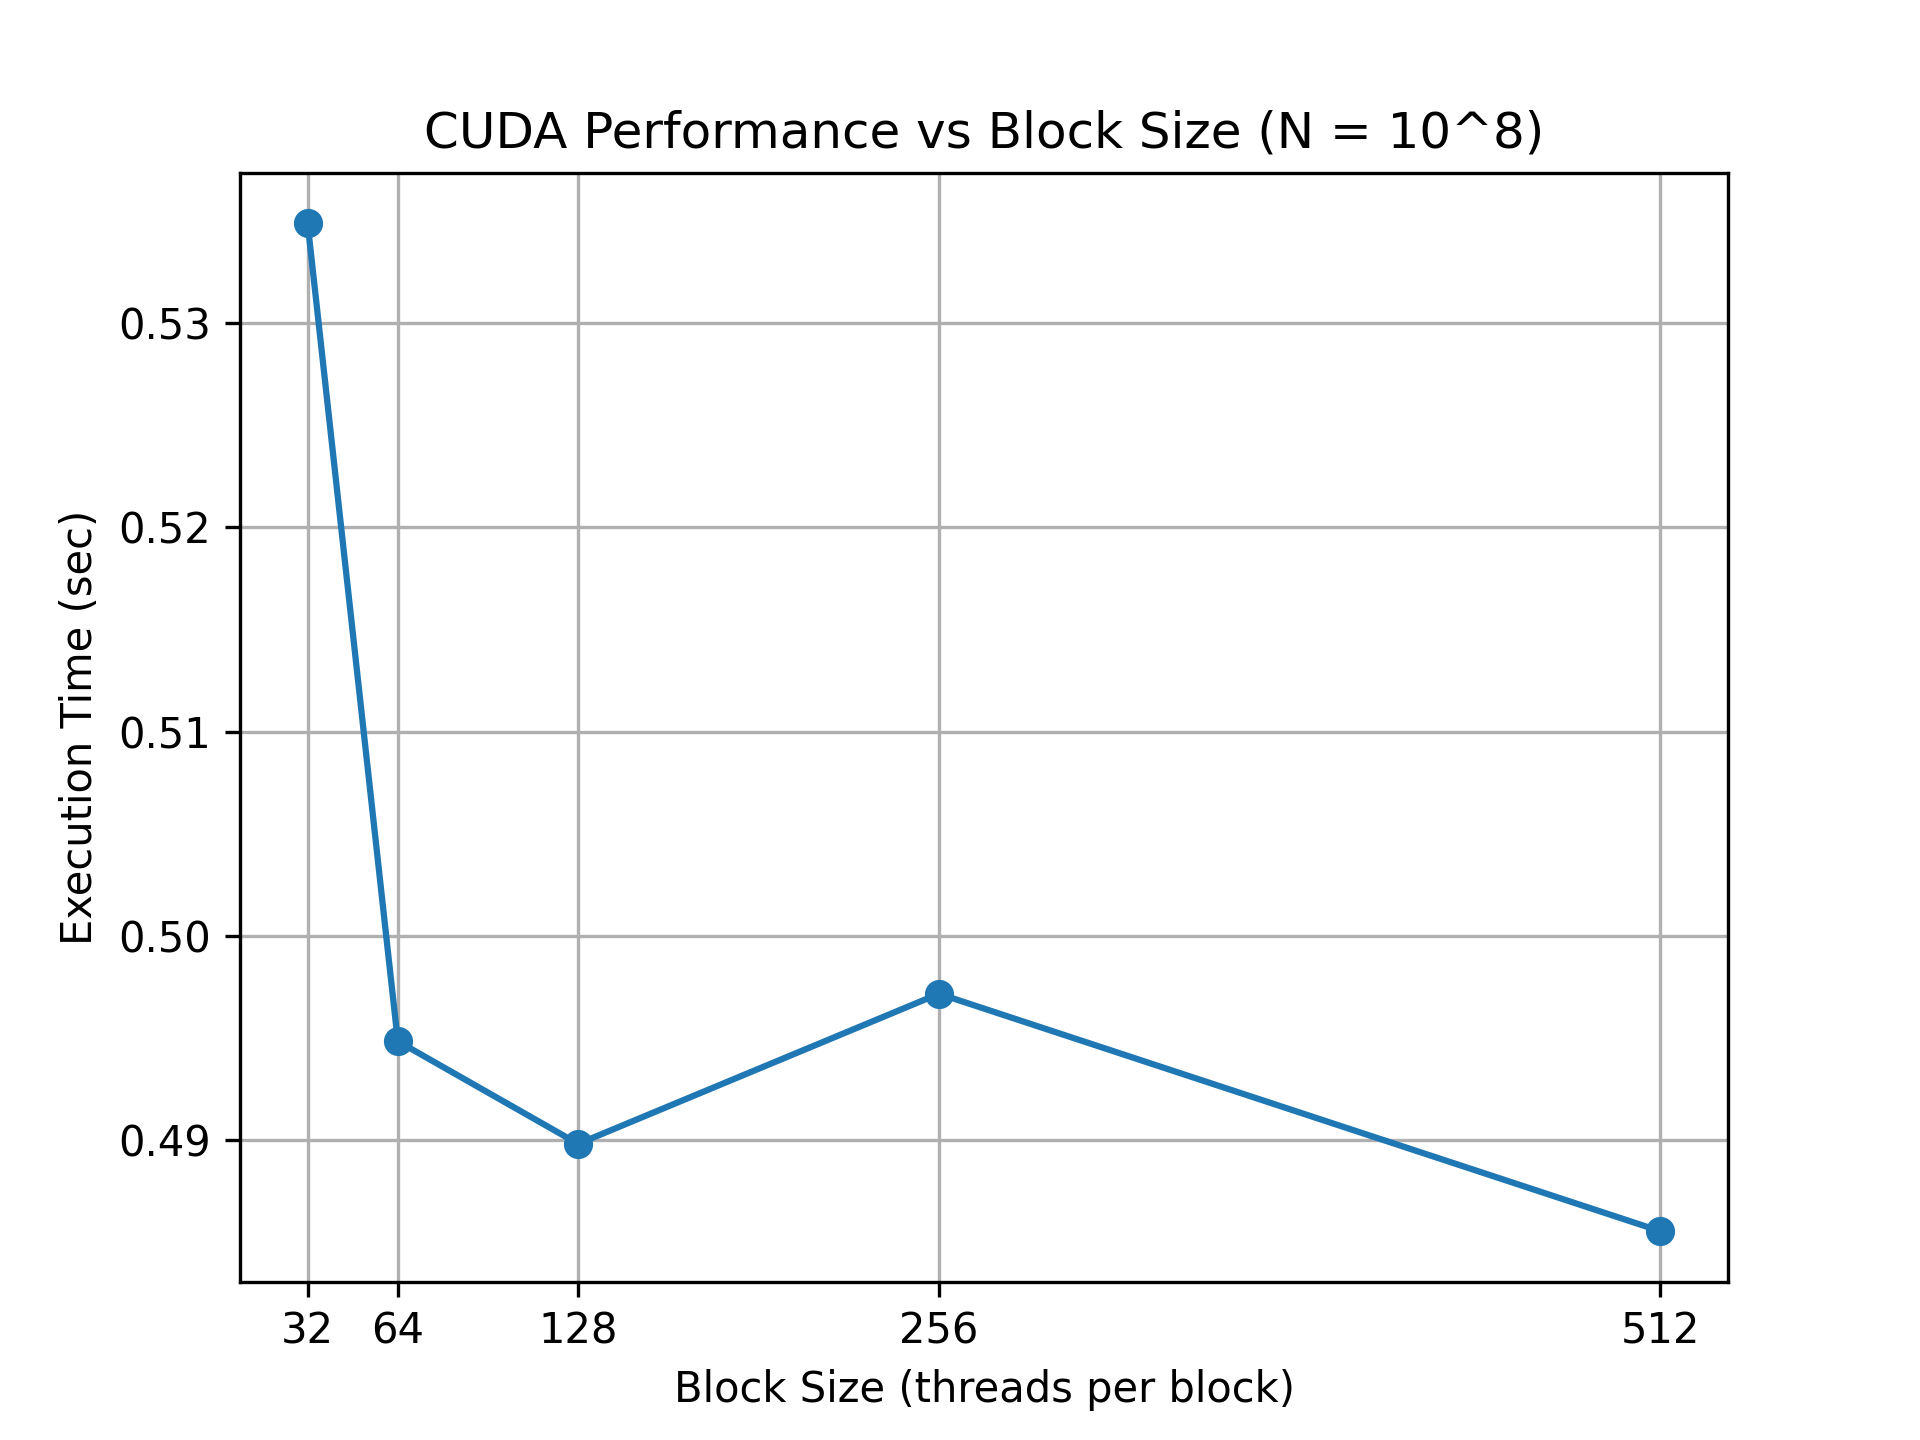
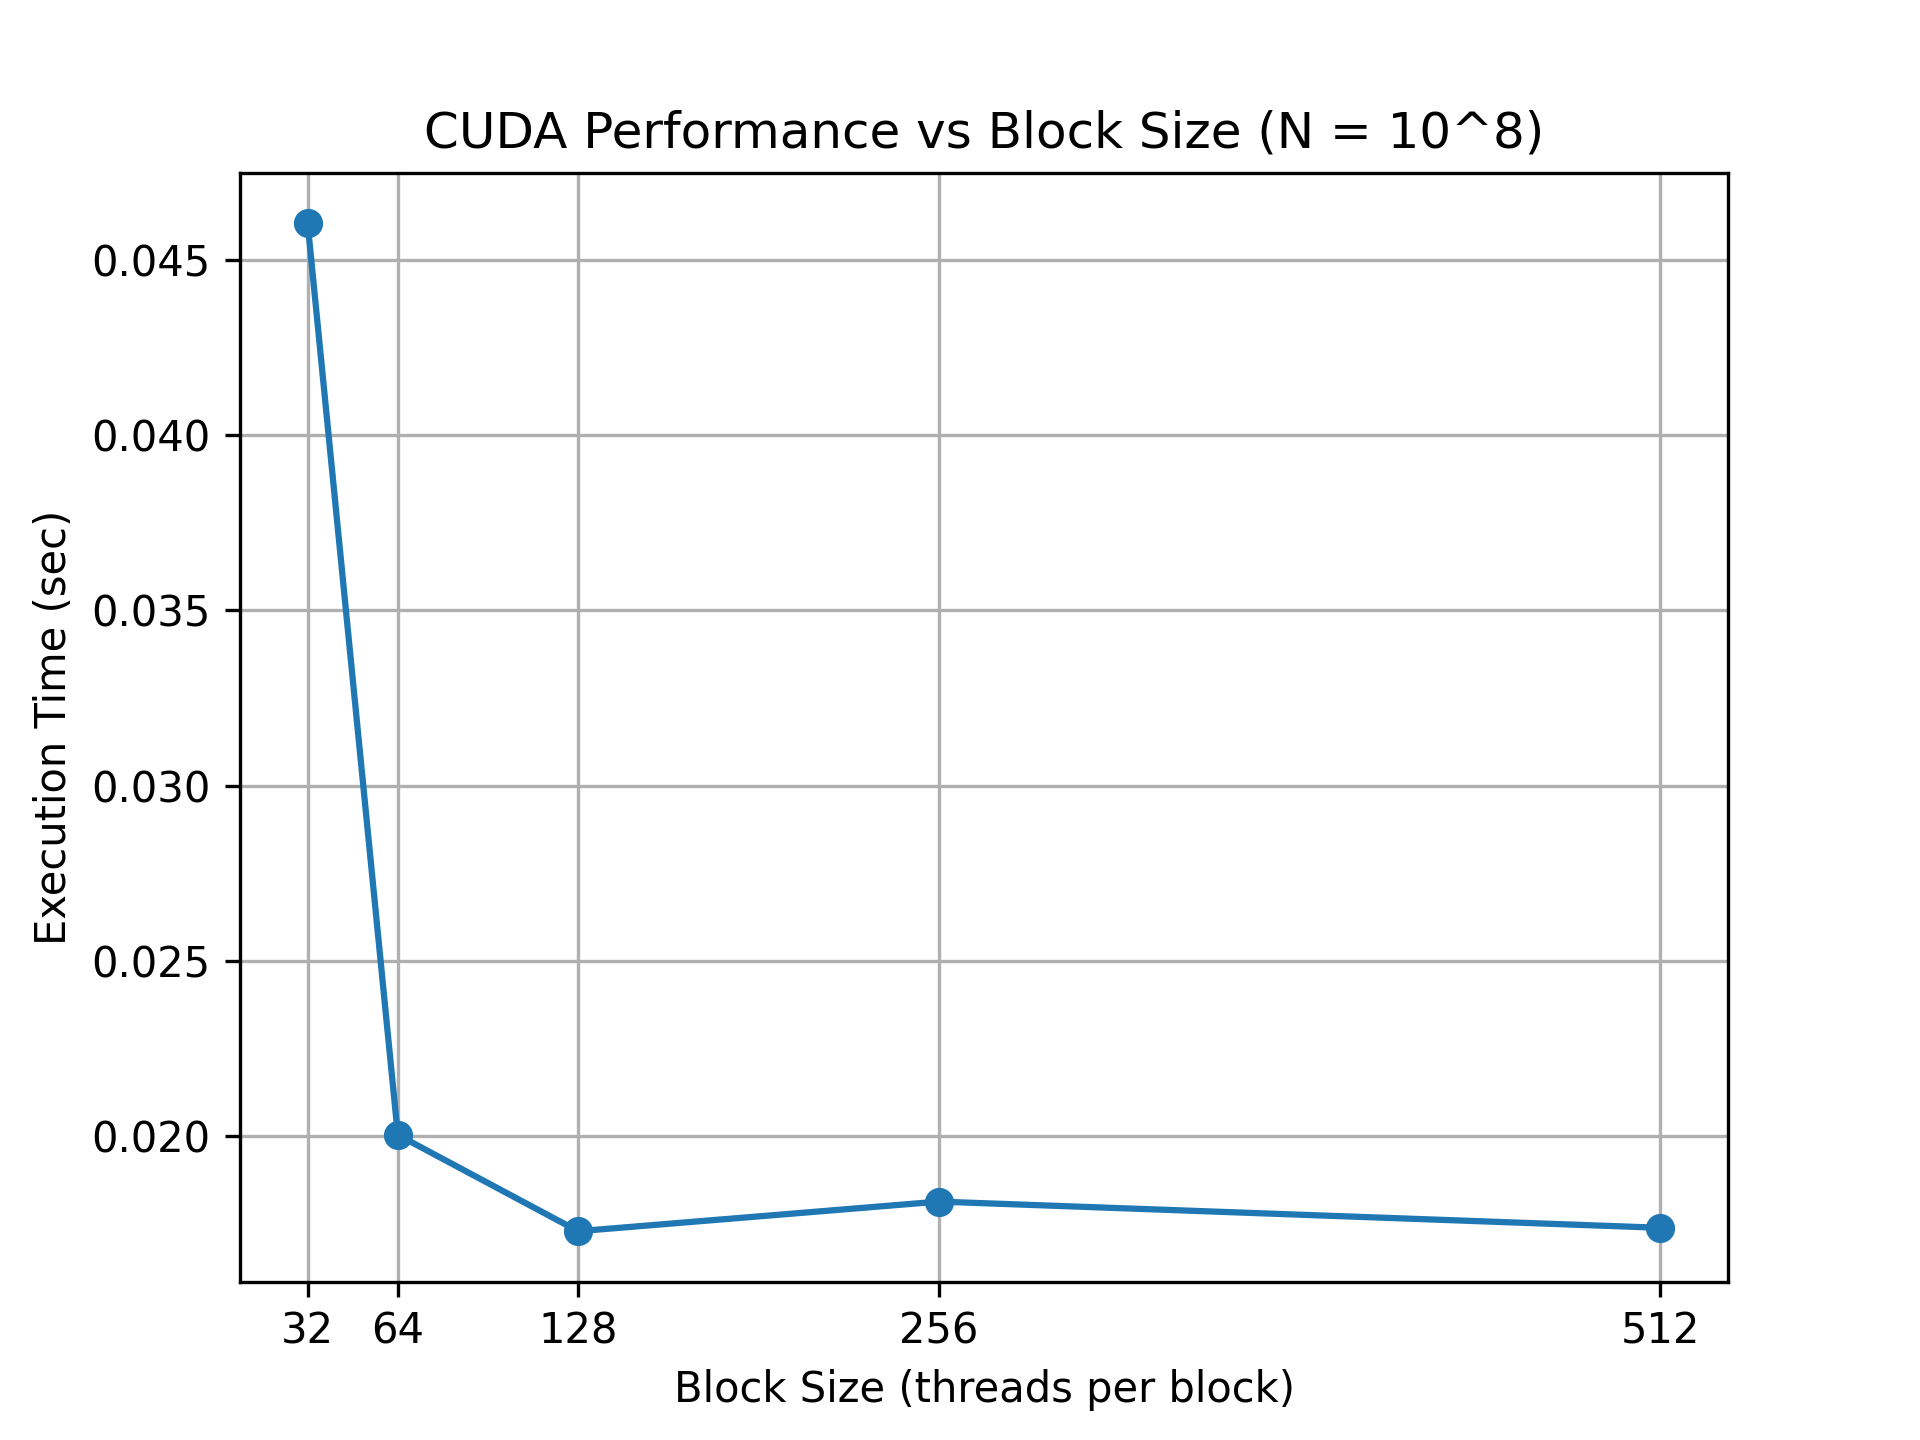
3h ergasia almost done

diff --git a/Ergasia_Parallel_3/python_scripts/test.py b/Ergasia_Parallel_3/python_scripts/test.py
@@ -4,10 +4,10 @@ import matplotlib.pyplot as plt
 block_sizes = [32, 64, 128, 256, 512]
 
 # Times for N = 100,000,000 (ΝΕΑ δεδομένα)
-times_large_N = [0.534862, 0.494854, 0.489835, 0.497177, 0.485564]
+times_large_N = [0.0460416, 0.0200424, 0.0172954, 0.0181400, 0.0173923]
 
 # Times for N = 1,000,000 (ΝΕΑ δεδομένα)
-times_small_N = [0.0059252, 0.0059711, 0.00515, 0.0049818, 0.0049477]
+times_small_N = [0.0005616, 0.0002786, 0.0004930, 0.0003688, 0.0002837]
 
 # ----------------------------
 # Plot 1: Large N